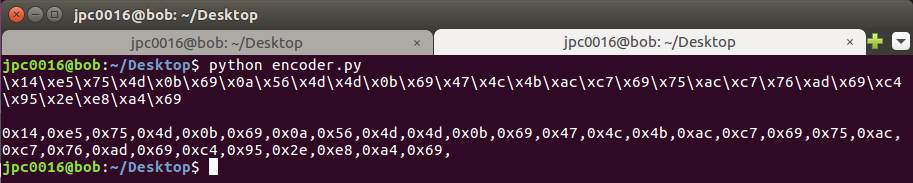
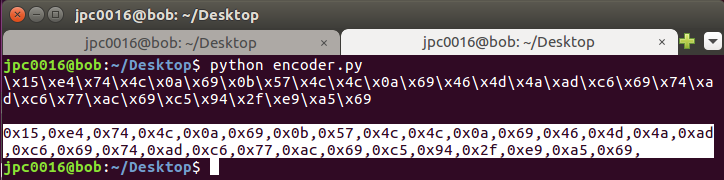
tweaks and image adds

diff --git a/drafts/custom-encoding.html b/drafts/custom-encoding.html
@@ -110,7 +110,7 @@ index = 1
 for byte in bytearray(shellcode):
 	#print index(byte)
 	if index % 5 == 0:
-		y = byte^0x24
+		y = byte^0x25
 		encoded += '\\x'
 		encoded += '%02x' % y  # see pyformat.info on use of % in formatting
 		encoded += '\\x%02x' % 0x69	# insert 0x69 after every 5th byte
@@ -120,7 +120,7 @@ for byte in bytearray(shellcode):
 		encoded2 += '0x%02x,' % 0x69
 
 	else:
-		z = byte^0x25
+		z = byte^0x24
 		encoded += '\\x'
 		encoded += '%02x' % z	# else XOR with 0x25
 
@@ -187,6 +187,7 @@ decoder:
 call_shellcode:
 	call decoder
 	; spaces added after commas for readability
+THIS IS WRONG ENCODED PAYLOAD
 	EncodedShellcode: db 0x14, 0xe5, 0x75, 0x4d, 0x0b, 0x69, 0x0a, 0x56, 0x4d, 0x4d, 0x0b, 0x69, 0x47, 0x4c, 0x4b, 0xac, 0xc7, 0x69, 0x75, 0xac, 0xc7, 0x76, 0xad, 0x69, 0xc4, 0x95, 0x2e, 0xe8, 0xa4, 0x69, 0xaa, 0xaa
 
 										</code>
